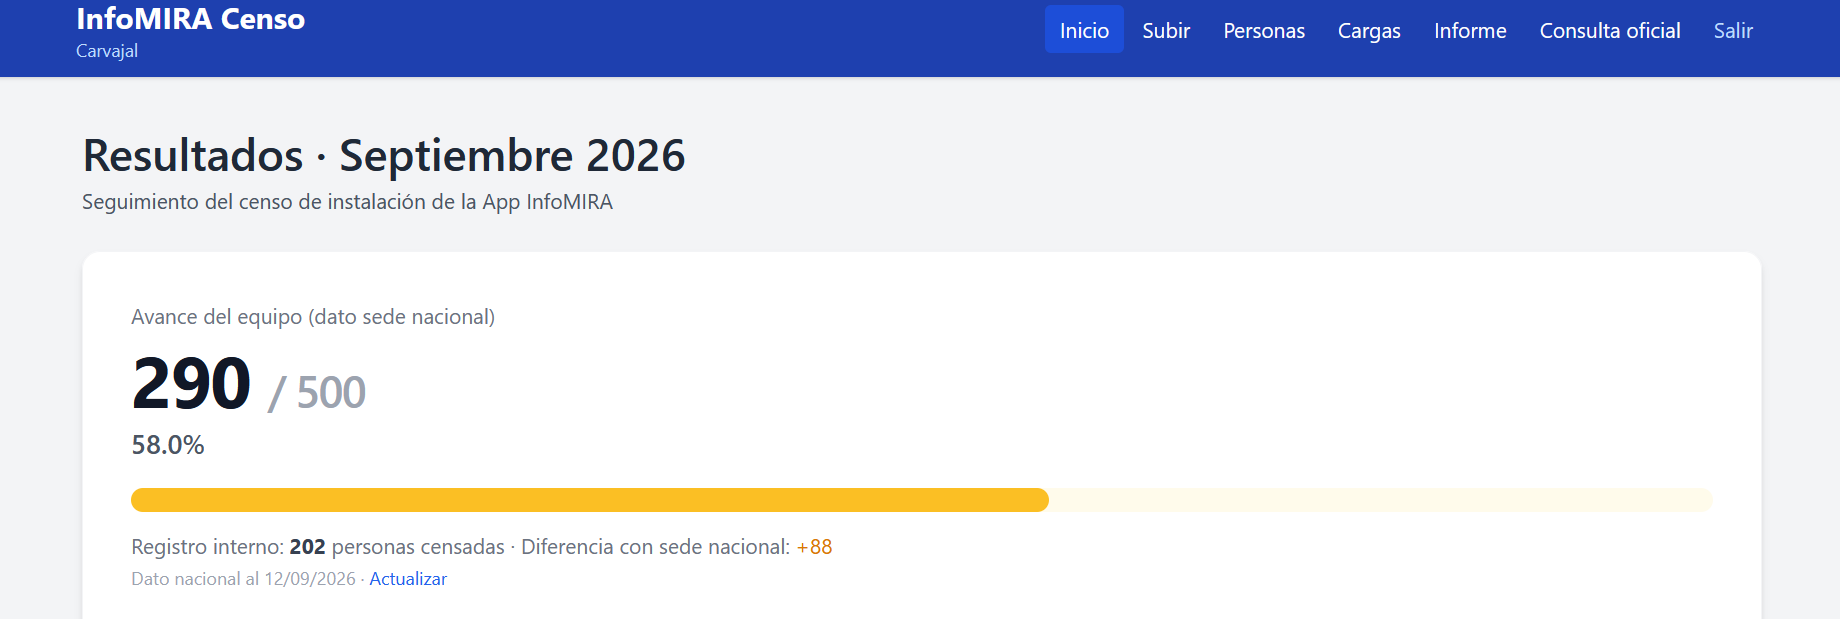
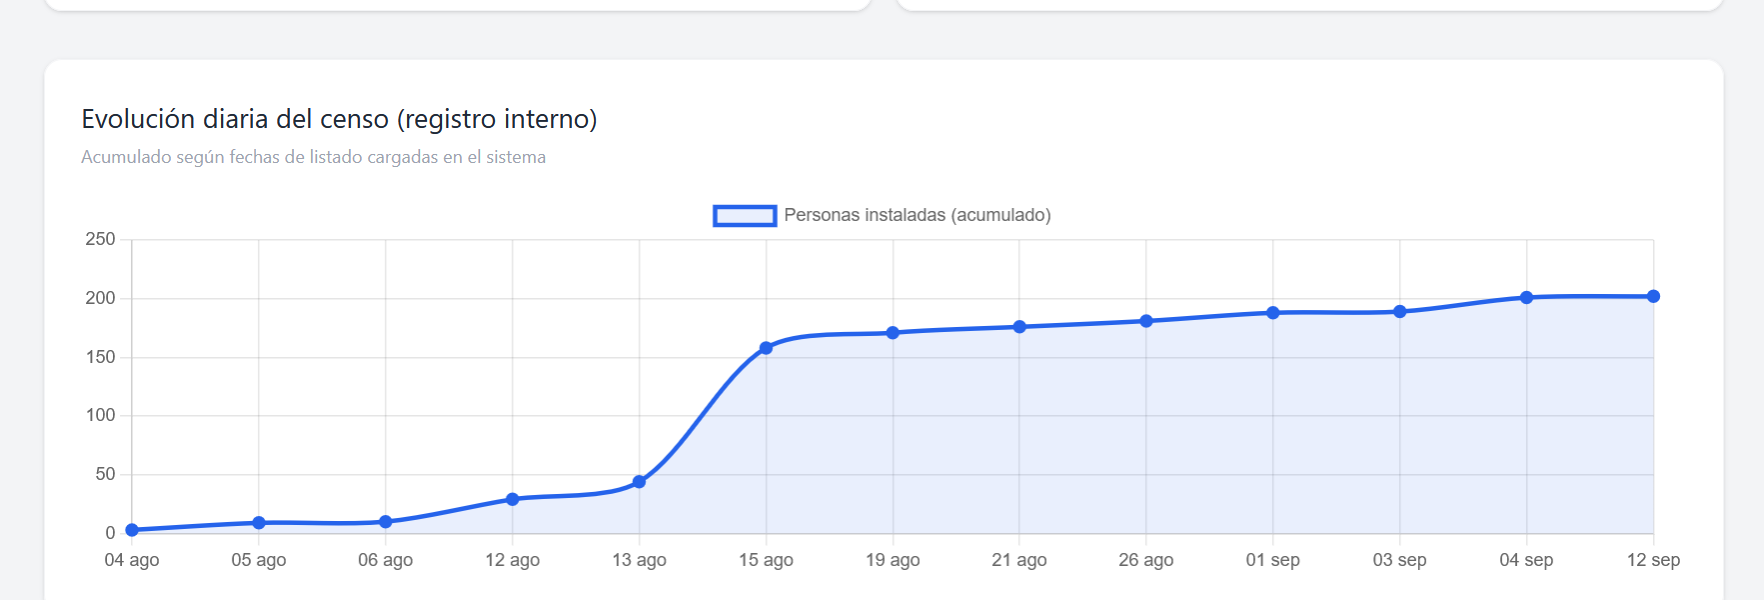
Polish hero: crop chart focus, soft green availability, censo-only stack
Remove Avance/Operativo float chips, keep Python+FastAPI pills, crop
hero-dashboard to the evolución line chart (no InfoMIRA header), and
soft-green the availability badge while preserving amber CTAs.

diff --git a/src/styles/global.css b/src/styles/global.css
@@ -268,9 +268,9 @@ button:focus-visible {
   font-weight: 650;
   letter-spacing: 0.06em;
   text-transform: uppercase;
-  color: var(--warm);
-  background: var(--warm-soft);
-  border: 1px solid rgba(232, 160, 84, 0.28);
+  color: var(--success);
+  background: var(--success-soft);
+  border: 1px solid rgba(107, 207, 142, 0.32);
   border-radius: 999px;
   padding: 0.35rem 0.85rem;
   margin-bottom: 1.35rem;
@@ -281,8 +281,8 @@ button:focus-visible {
   width: 6px;
   height: 6px;
   border-radius: 50%;
-  background: var(--warm);
-  box-shadow: 0 0 0 3px rgba(232, 160, 84, 0.28);
+  background: var(--success);
+  box-shadow: 0 0 0 3px rgba(107, 207, 142, 0.22);
 }
 
 .hero h1 {
@@ -416,14 +416,17 @@ button:focus-visible {
 .hero-product-media {
   background: #0d1117;
   line-height: 0;
+  overflow: hidden;
 }
 
 .hero-product-media img {
   width: 100%;
   height: auto;
-  aspect-ratio: 16 / 9.2;
+  aspect-ratio: 16 / 9.5;
   object-fit: cover;
-  object-position: top center;
+  object-position: center 42%;
+  transform: scale(1.08);
+  transform-origin: center 40%;
 }
 
 .hero-product-caption {
@@ -457,73 +460,6 @@ button:focus-visible {
   box-shadow: 0 12px 28px rgba(0, 0, 0, 0.35);
 }
 
-.hero-float--stats {
-  left: -0.35rem;
-  bottom: 12%;
-  display: flex;
-  gap: 0.65rem;
-  padding: 0.7rem 0.8rem;
-  border-color: rgba(232, 160, 84, 0.28);
-}
-
-.hero-stat {
-  display: flex;
-  flex-direction: column;
-  gap: 0.2rem;
-  min-width: 4.5rem;
-}
-
-.hero-stat--sm {
-  min-width: 0;
-  justify-content: center;
-  border-left: 1px solid var(--border-soft);
-  padding-left: 0.65rem;
-}
-
-.hero-stat-label {
-  font-size: 0.65rem;
-  text-transform: uppercase;
-  letter-spacing: 0.06em;
-  color: var(--text-dim);
-  font-weight: 650;
-}
-
-.hero-stat-value {
-  font-family: var(--font-display);
-  font-size: 1.35rem;
-  font-weight: 750;
-  letter-spacing: -0.03em;
-  color: var(--warm);
-  line-height: 1;
-}
-
-.hero-stat-bar {
-  display: block;
-  height: 4px;
-  border-radius: 999px;
-  background: rgba(255, 255, 255, 0.08);
-  overflow: hidden;
-  margin-top: 0.2rem;
-}
-
-.hero-stat-bar i {
-  display: block;
-  height: 100%;
-  border-radius: inherit;
-  background: linear-gradient(90deg, var(--warm-deep), var(--warm));
-}
-
-.hero-stat-chip {
-  font-family: var(--mono);
-  font-size: 0.78rem;
-  color: var(--accent);
-  background: var(--accent-soft);
-  border: 1px solid rgba(107, 168, 216, 0.28);
-  border-radius: 999px;
-  padding: 0.2rem 0.5rem;
-  width: fit-content;
-}
-
 .hero-float--stack {
   right: 0.25rem;
   top: 0.15rem;
@@ -552,11 +488,6 @@ button:focus-visible {
     transform: translateY(-2px);
   }
 
-  .hero-float--stats {
-    left: 0.5rem;
-    bottom: 8%;
-  }
-
   .hero-orbit {
     display: none;
   }
@@ -565,14 +496,6 @@ button:focus-visible {
 @media (max-width: 520px) {
   .hero-float--stack {
     display: none;
-  }
-
-  .hero-float--stats {
-    position: relative;
-    left: 0;
-    bottom: 0;
-    margin-top: 0.85rem;
-    width: fit-content;
   }
 
   .hero-stage {
